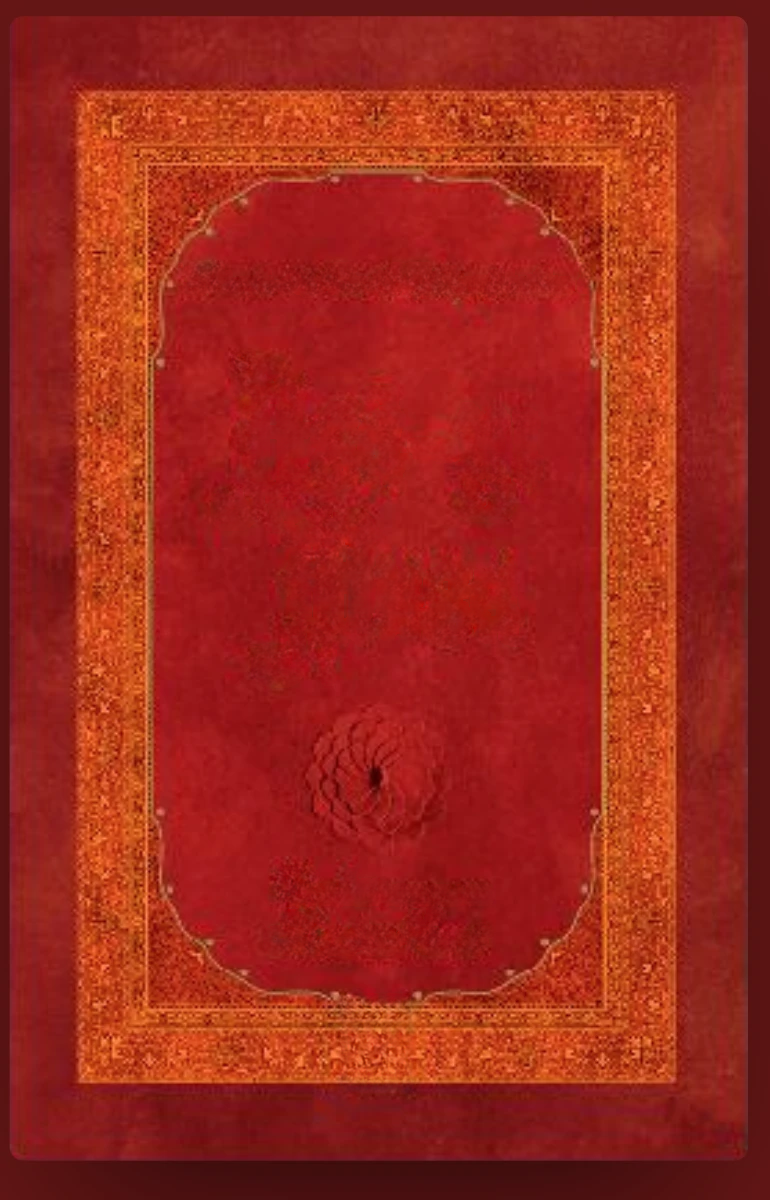
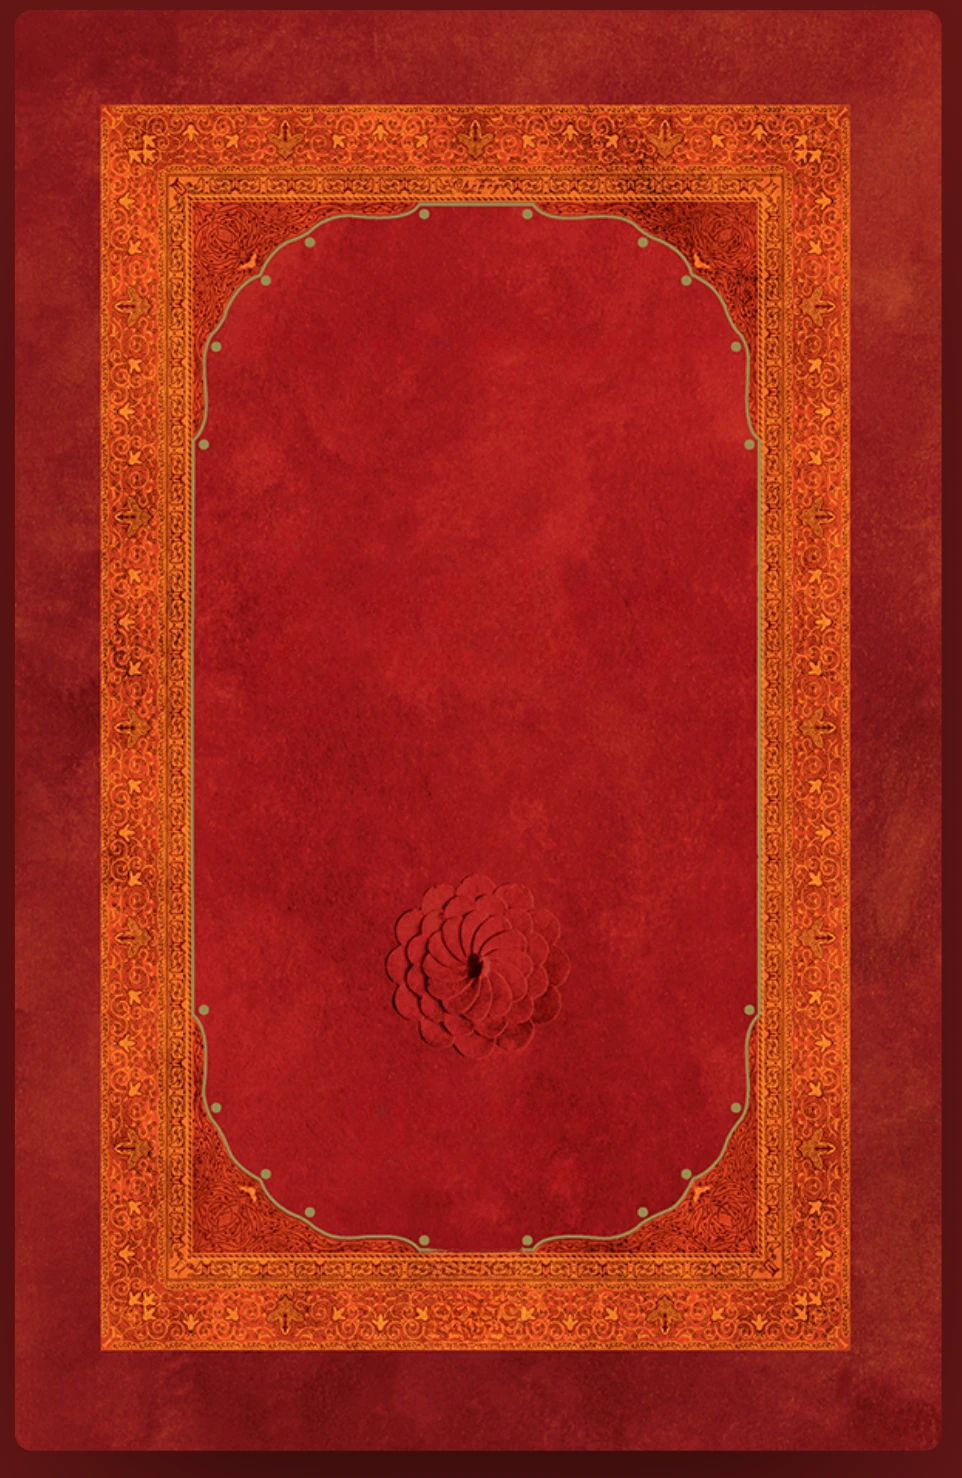
Asâ-yı Mûsâ: rebuild from the clearer series screenshot
Claude-Session: https://claude.ai/code/session_01HzzWWnp1YQyDSmbqFiedxq

Changed region(s): [[0.0935, 0.0617, 0.9039, 0.925], [0.0, 0.0, 0.9974, 0.9867], [0.4052, 0.5858, 0.5922, 0.7092]]

diff --git a/covers/asa/erase_title.py b/covers/asa/erase_title.py
@@ -12,15 +12,15 @@ import torch
 from PIL import Image
 
 HERE = Path(__file__).parent
-SRC = HERE / "asa-source.webp"
+SRC = HERE / "asa-source-hq.webp"     # clearer screenshot of the same series design (the Sözler cover)
 DST = HERE / "asa-notitle-source.png"
 # gold letters on the red velvet: (box, green-channel lift above the local background, dilation)
-REGIONS = [((178, 262, 592, 304), 28, 7),      # "Risale-i Nur Külliyatı'ndan"
-           ((212, 340, 562, 702), 28, 9),      # title
-           ((245, 845, 515, 968), 28, 7)]      # author
-BOXES = [(338, 993, 414, 1093)]                # publisher logo on the ornate border
-CONTEXT = (0, 1176)                            # rows handed to LaMa (multiple of 8)
-COLS = (0, 768)
+REGIONS = [((230, 316, 726, 374), 28, 7),      # "Risale-i Nur Külliyatı'ndan"
+           ((238, 495, 714, 750), 28, 9),      # title (Sözler on this screenshot)
+           ((318, 1070, 642, 1202), 28, 7)]    # author
+BOXES = [(429, 1243, 525, 1358)]               # publisher logo on the ornate border
+CONTEXT = (0, 1472)                            # rows handed to LaMa (multiple of 8)
+COLS = (0, 960)
 
 
 def mask_for(im):

diff --git a/covers/asa/make_khmer.py b/covers/asa/make_khmer.py
@@ -3,7 +3,7 @@
 original; no author, no publisher logo, no "Risale-i Nur Külliyatı'ndan" line.
 
     python3 make_khmer.py [--hd] [--font Battambang]
-Writes khmer.png (736x1142) or khmer-hd.png (2944x4568).
+Writes khmer.png (925x1437) or khmer-hd.png (3700x5748).
 """
 import sys
 from pathlib import Path
@@ -15,13 +15,13 @@ FONTS = HERE.parent / "fonts"
 SOURCE = HERE / "asa-notitle-source.png"
 SOURCE_HD = HERE / "asa-notitle-source-4x.png"
 
-COVER = (11, 16, 747, 1158)          # cover inside the screenshot's dark frame (source px)
-CORNER = 10
+COVER = (16, 11, 941, 1448)          # cover inside the screenshot's dark frame (source px)
+CORNER = 12
 
 # text, max width, ink height, centre x, centre y
 LINES = [
-    ("ដំបងរបស់", 330, 110, 385, 445),
-    ("ព្យាការីមូសា", 340, 110, 385, 590),
+    ("ដំបងរបស់", 420, 140, 478, 545),
+    ("ព្យាការីមូសា", 430, 140, 478, 720),
 ]
 GOLD = (200, 172, 108)
 SHADE = (60, 8, 8)
